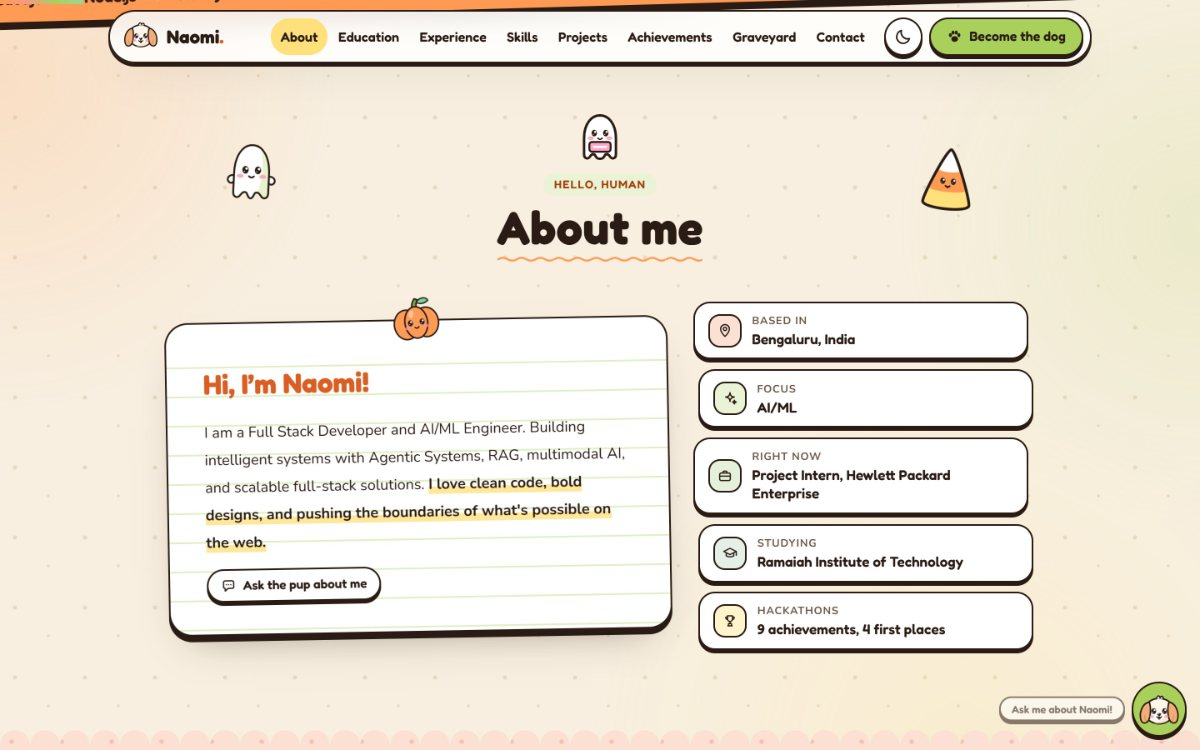
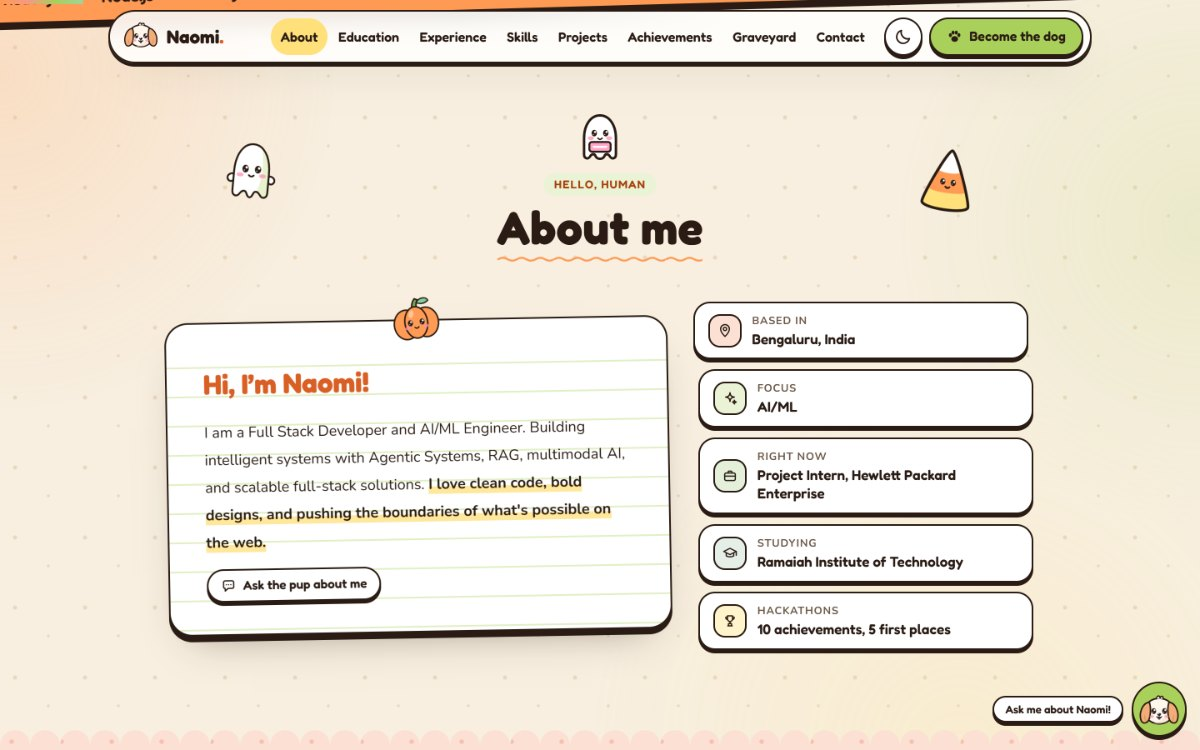
Add the SustainAI win and keep the award cards aligned.
The village now has three dig notes, and the last trophy row stays the same width as the rows above.

diff --git a/src/dog/notes.ts b/src/dog/notes.ts
@@ -9,8 +9,6 @@ export type BuriedNote = {
   lines: string[];
 };
 
-const capitalise = (text: string) => text.charAt(0).toUpperCase() + text.slice(1);
-
 /**
  * The notes the pup can dig up. Each one gathers a few related facts so a dig
  * is worth the walk, rather than turning up a single word.
@@ -44,15 +42,6 @@ export function buriedNotes(data: Portfolio): BuriedNote[] {
       title: `${first}'s hackathon record`,
       intro: `${awards.length} results, ${firsts} of them first place.`,
       lines: awards.map((award) => [award.event, award.place, award.date].filter(Boolean).join(' · ')),
-    });
-  }
-
-  const focus = data.skills.find((group) => /focus/i.test(group.title));
-  if (focus) {
-    notes.push({
-      id: 'note-focus',
-      title: `What ${first} builds`,
-      lines: focus.skills.map(capitalise),
     });
   }
 

diff --git a/src/content/portfolio.ts b/src/content/portfolio.ts
@@ -266,6 +266,7 @@ export const portfolio = {
     'Code2Create 2026 — 1st Place — MSRIT ACM — May 2026',
     'Athernex Hackathon — 2nd Place — BMSCE Bangalore — April 2026',
     'Hack-A-War Hackathon — 1st Place — MSRIT Bangalore — April 2026',
+    'SustainAI Buildathon — 1st Place — MSRIT Bangalore — April 2026',
     'Mindscape Hackathon — 2nd Place — BNMIT Bangalore — July 2025',
     "Code-A-Thon Hackathon — 3rd Place — MIT Bangalore — April 2025",
     "Code Red '25 — Consolation Prize — BMSIT — January 2025",

diff --git a/src/styles/human.css b/src/styles/human.css
@@ -1993,7 +1993,8 @@ a {
 .award {
   --medal: var(--butter);
   --award-soft: var(--butter-soft);
-  flex: 1 1 250px;
+  /* Fixed width (no growing), so a short last row lines up with the columns above. */
+  flex: 0 1 256px;
   max-width: 272px;
   position: relative;
   display: grid;

diff --git a/ARTICLE.md b/ARTICLE.md
@@ -29,7 +29,7 @@ Ask in plain words: *What does Naomi build? Which projects use React? What hacka
 
 Behind the face is a retrieval agent that runs entirely in the browser, with no LLM API. When the chat opens, my portfolio content is split into small passages (one per project, internship, award and skill group), and each question is ranked against them with **BM25**, with light stemming and synonyms ("won" also finds awards). Every answer shows a **Found in** chip that jumps to its source. If nothing matches well enough, the pup says so: *"My nose couldn't find that on Naomi's page, and I don't make things up."* Some questions are actions: "Show me the blockchain projects" filters the project grid, "Turn the lights off" switches to dark mode, and "Let me be the dog" starts the village.
 
-![The chat answering "What hackathons has Naomi won?" with four first-place finishes and a Found in: Achievements chip](https://raw.githubusercontent.com/paccmann218/portfolio/master/docs/screenshots/ask-the-pup.jpg)
+![The chat answering "What hackathons has Naomi won?" with five first-place finishes and a Found in: Achievements chip](https://raw.githubusercontent.com/paccmann218/portfolio/master/docs/screenshots/ask-the-pup.jpg)
 
 *Asking about my hackathon wins. The answer cites the Achievements section it came from.*
 
@@ -56,7 +56,7 @@ This is the part I spent the most time on. **Become the dog** turns the page int
 | The mailbox | Contact |
 | The graveyard | Projects I set down |
 
-The sky follows your local time, so you might arrive at golden hour or under a full moon. Press **S** to sniff and see glowing scent trails, dig up four buried notes (my school report, my current internship, my hackathon record and what I build), and try on a pumpkin, ghost or witch-hat costume. Stand still and the pup sits, then falls asleep. Opening the cottage, the workshop and the market lights three memory lanterns, and a short ending plays.
+The sky follows your local time, so you might arrive at golden hour or under a full moon. Press **S** to sniff and see glowing scent trails, dig up three buried notes (my school report, my current internship and my hackathon record), and try on a pumpkin, ghost or witch-hat costume. Stand still and the pup sits, then falls asleep. Opening the cottage, the workshop and the market lights three memory lanterns, and a short ending plays.
 
 ![Dog mode: the pup walking past the cottage, the school, the quest board and the spell workshop, with the mini-map at the bottom](https://raw.githubusercontent.com/paccmann218/portfolio/master/docs/screenshots/dog-village.jpg)
 
@@ -213,7 +213,7 @@ The agent, Fetch and the village all run in the browser, so a judge asking the p
 
 ## Things that didn't work the first time
 
-**The dig spots looked wrong.** My first version was a row of about twelve brown domes with dark speckles, right on the path, and they looked like exactly what a real dog leaves behind. I redrew them as flat patches of turned soil with a bone and a sparkle, moved them onto the grass, and cut them down to four spots that each hold a proper note instead of a single fact. The lesson: check your art at the size and in the place people will actually see it.
+**The dig spots looked wrong.** My first version was a row of about twelve brown domes with dark speckles, right on the path, and they looked like exactly what a real dog leaves behind. I redrew them as flat patches of turned soil with a bone and a sparkle, moved them onto the grass, and cut them down to three spots that each hold a proper note instead of a single fact. The lesson: check your art at the size and in the place people will actually see it.
 
 **The purple colour scheme looked generic.** The first version was lavender and purple everywhere, like a generated landing page. I re-coloured the whole site (CSS, every SVG illustration, the favicon) into midnight brown-black, pumpkin orange, bone white and witch-hat green.
 

diff --git a/README.md b/README.md
@@ -64,11 +64,11 @@ Built for the **AWS Student Builder Challenge**. Underneath, it's a normal, read
     <td align="center"><sub>Sniff (S) for scent trails, then dig where the bone is.</sub></td>
   </tr>
   <tr>
-    <td width="50%"><img src="docs/screenshots/dog-buried-notes.jpg" alt="A dug-up note: Naomi's hackathon record, 9 results, 4 of them first place"></td>
+    <td width="50%"><img src="docs/screenshots/dog-buried-notes.jpg" alt="A dug-up note: Naomi's hackathon record, 10 results, 5 of them first place"></td>
     <td width="50%"><img src="docs/screenshots/dog-lanterns.jpg" alt="The ending dialog titled The lanterns are lit"></td>
   </tr>
   <tr>
-    <td align="center"><sub>Four dig spots: school report, current internship, hackathon record, focus areas.</sub></td>
+    <td align="center"><sub>Three dig spots: school report, current internship, hackathon record.</sub></td>
     <td align="center"><sub>Light the cottage, workshop and market lanterns for the ending.</sub></td>
   </tr>
 </table>
@@ -275,7 +275,7 @@ The live site is an Amplify Hosting app that is not connected to Git. Each relea
 
 - Scroll, A and D, or the arrow keys to walk. On a phone, swipe sideways or hold the ◀ ▶ buttons next to the map.
 - Walk up to a building and press the bubble over the pup, or E, to open it. The mini-map jumps to any building.
-- S, or the Sniff button, shows scent trails. Stand on one of the four dig spots and press E to dig up its note.
+- S, or the Sniff button, shows scent trails. Stand on one of the three dig spots and press E to dig up its note.
 - Costumes: pumpkin, bedsheet ghost, witch hat.
 - Stop walking and the pup sits, then curls up and falls asleep.
 - Asking the pup to "take me to the projects" walks it to the market.
